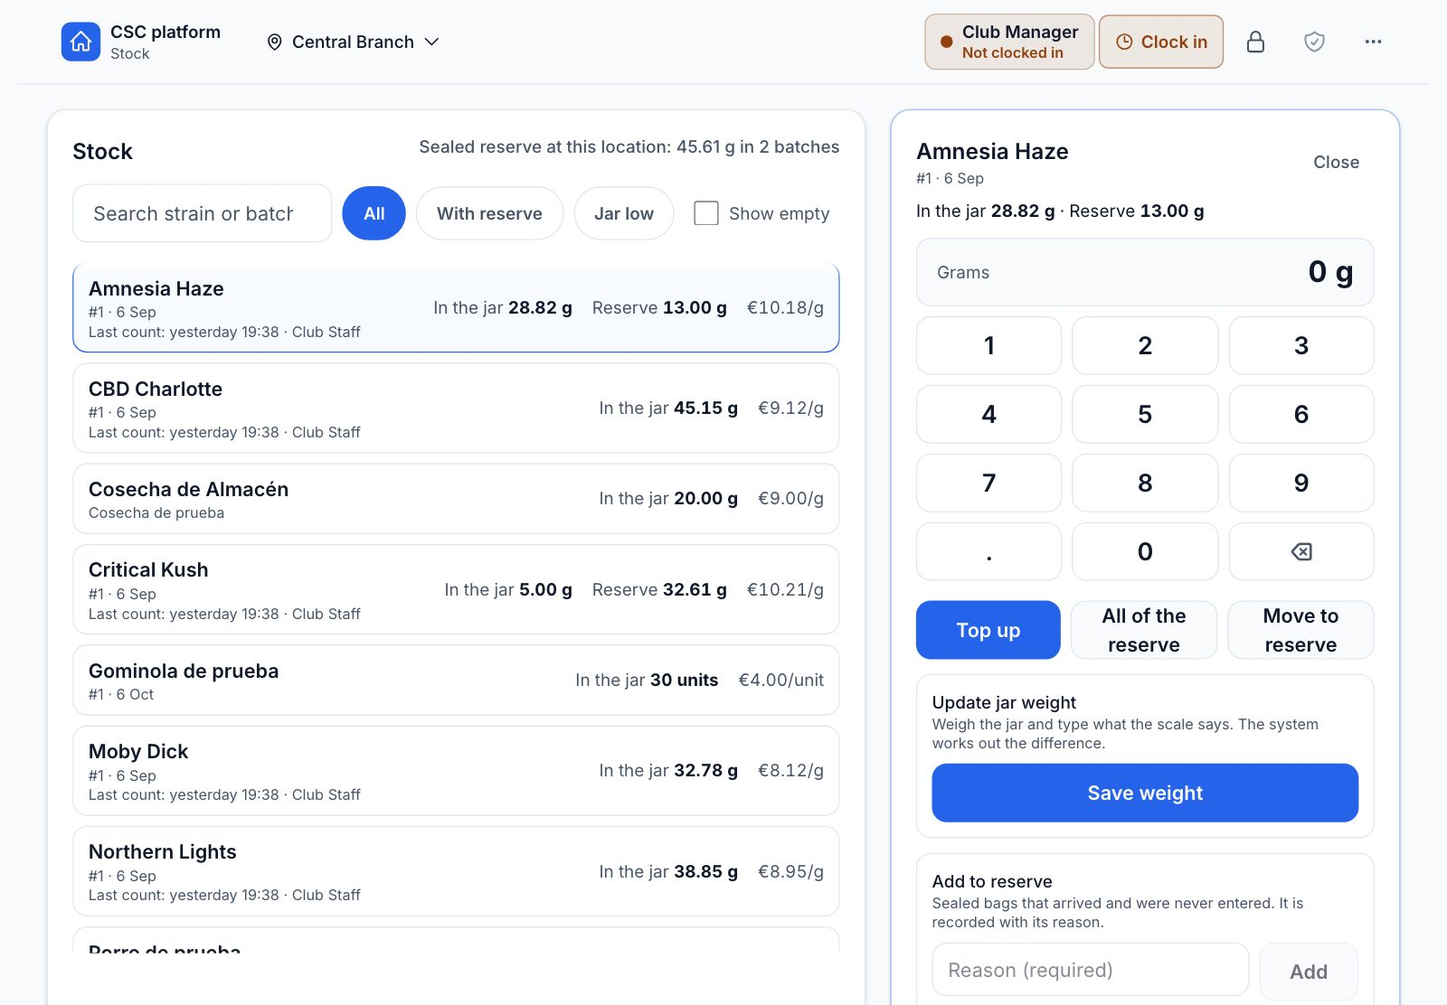
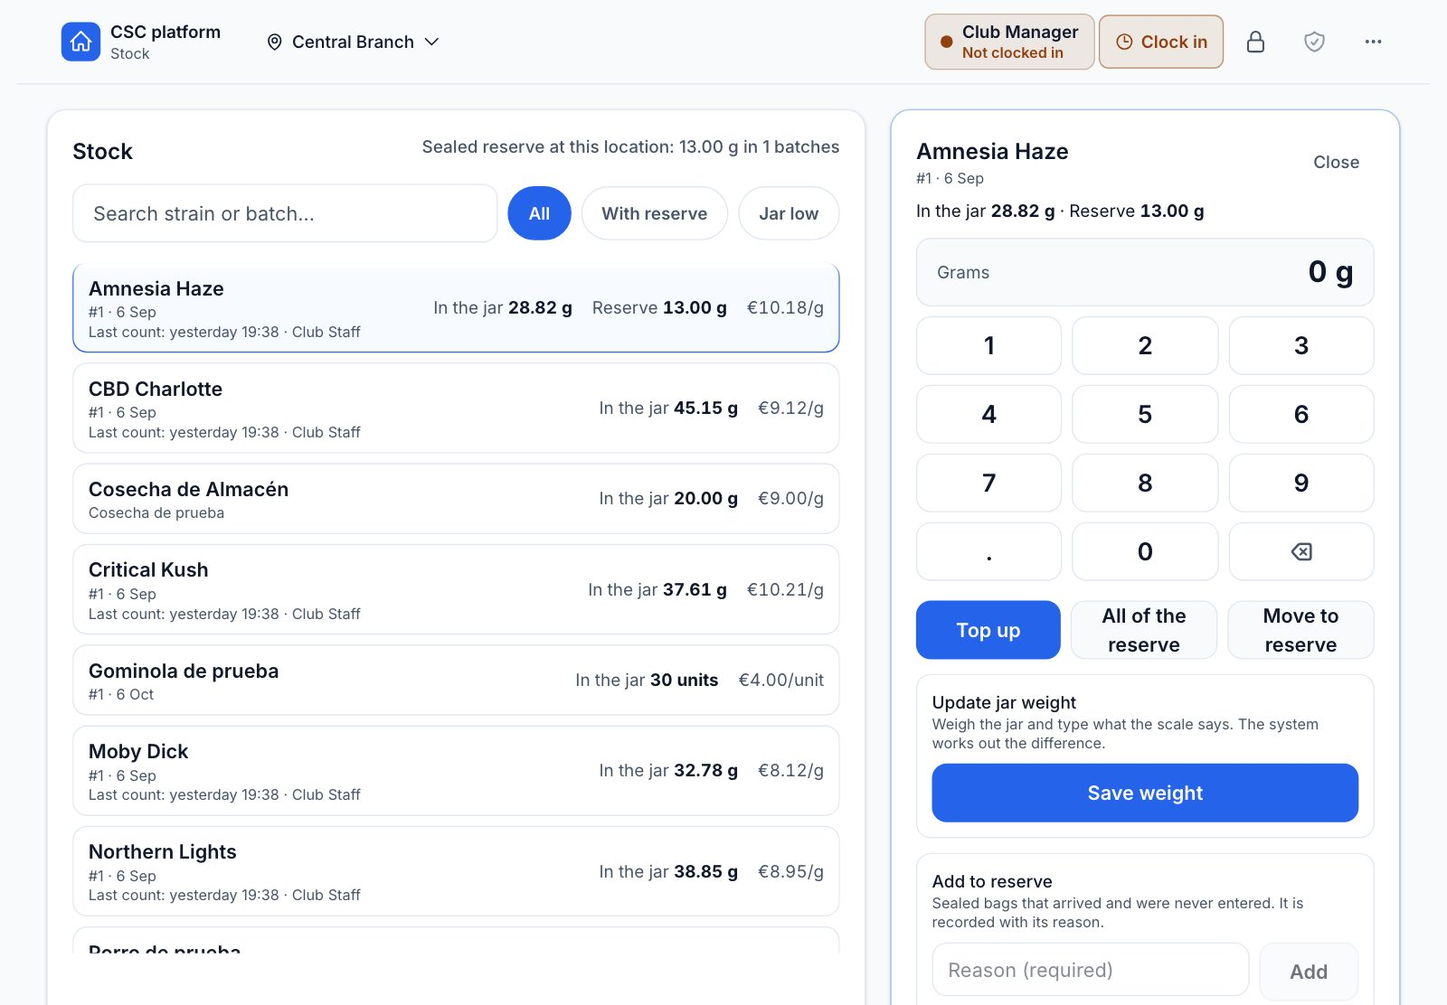
fix(counter): Existencias on a phone — the search box gets its own row, empties are counted and grouped, an empty reserve says why
- Header: full-width search row on a phone, chips underneath; one row from md only with min-w-56 (was 48 px on an iPhone).
- «N lotes agotados ocultos · Mostrar» replaces the checkbox; shown, the empties come last under «Agotados».
- «Con reserva» with no reserve at the sede: «No hay reserva sellada apuntada en esta sede.» and how it gets there.
- «Agotado» in English is "Out of stock", not "Sold out". Guide text and the 04b screenshot updated.

Claude-Session: https://claude.ai/code/session_01JxcuX4zpbtLwRQJ9oHz38d

diff --git a/resources/views/livewire/counter/stock-screen.blade.php b/resources/views/livewire/counter/stock-screen.blade.php
@@ -40,55 +40,66 @@
                     @endif
                 </div>
 
-                <div class="mt-3 flex flex-wrap items-center gap-2">
+                {{-- Prompt 365 — the search box has its OWN full-width row on a phone (in one wrapping row with the chips it shrank
+                     to a sliver: «Se»), and keeps ≥ 14rem beside the chips from 768 px. The chips wrap underneath. --}}
+                <div class="mt-3 flex flex-col gap-2 md:flex-row md:flex-wrap md:items-center">
                     <label class="sr-only" for="stock-search">{{ __('Buscar variedad o lote') }}</label>
                     <input id="stock-search" type="search" wire:model.live.debounce.300ms="batchFilter" autocomplete="off" data-stock-search
                            placeholder="{{ __('Buscar variedad o lote…') }}"
-                           class="h-12 min-w-0 flex-1 rounded-xl border border-line bg-surface px-4 text-base text-ink placeholder:text-ink-muted focus:border-brand focus:outline-none focus:ring-2 focus:ring-brand/40 dark:border-slate-700 dark:bg-slate-950 dark:text-slate-100">
-                    @foreach (['all' => __('Todos'), 'reserve' => __('Con reserva'), 'low' => __('Bote bajo')] as $key => $label)
-                        <button type="button" wire:click="setFilter('{{ $key }}')" data-stock-filter="{{ $key }}" aria-pressed="{{ $filter === $key ? 'true' : 'false' }}"
-                                @class(['inline-flex min-h-11 items-center rounded-full border px-4 text-sm font-semibold transition',
-                                    'border-brand bg-brand text-white' => $filter === $key,
-                                    'border-line bg-surface text-ink-muted hover:bg-surface-alt dark:border-slate-700 dark:bg-slate-950 dark:text-slate-300' => $filter !== $key])>{{ $label }}</button>
-                    @endforeach
-                    <label class="inline-flex min-h-11 items-center gap-2 px-2 text-sm text-ink-muted dark:text-slate-400">
-                        <input type="checkbox" wire:model.live="showEmpty" class="h-5 w-5 rounded border-line text-brand focus:ring-brand/40 dark:border-slate-600 dark:bg-slate-900" data-stock-show-empty>
-                        {{ __('Mostrar agotados') }}
-                    </label>
+                           class="h-12 w-full rounded-xl border border-line bg-surface px-4 text-base text-ink placeholder:text-ink-muted focus:border-brand focus:outline-none focus:ring-2 focus:ring-brand/40 dark:border-slate-700 dark:bg-slate-950 dark:text-slate-100 md:w-auto md:min-w-56 md:flex-1">
+                    <div class="flex flex-wrap items-center gap-2" data-stock-filters>
+                        @foreach (['all' => __('Todos'), 'reserve' => __('Con reserva'), 'low' => __('Bote bajo')] as $key => $label)
+                            <button type="button" wire:click="setFilter('{{ $key }}')" data-stock-filter="{{ $key }}" aria-pressed="{{ $filter === $key ? 'true' : 'false' }}"
+                                    @class(['inline-flex min-h-11 items-center rounded-full border px-4 text-sm font-semibold transition',
+                                        'border-brand bg-brand text-white' => $filter === $key,
+                                        'border-line bg-surface text-ink-muted hover:bg-surface-alt dark:border-slate-700 dark:bg-slate-950 dark:text-slate-300' => $filter !== $key])>{{ $label }}</button>
+                        @endforeach
+                    </div>
                 </div>
 
                 <div class="counter-scroll-region mt-4 max-h-[calc(100dvh-16rem)] overflow-y-auto overscroll-contain">
-                    @forelse ($rows as $row)
-                        <button type="button" wire:click="openBatch('{{ $row['id'] }}')" wire:key="stock-{{ $row['id'] }}" data-stock-row="{{ $row['id'] }}"
-                                @class(['mb-2 flex w-full min-h-11 flex-col gap-1 rounded-xl border px-3 py-2 text-left transition sm:flex-row sm:items-center sm:justify-between sm:gap-4',
-                                    'border-brand bg-brand-tint/50 dark:bg-slate-800' => $open !== null && $open['id'] === $row['id'],
-                                    'border-line bg-surface hover:border-brand hover:bg-brand-tint/40 dark:border-slate-700 dark:bg-slate-950 dark:hover:bg-slate-800' => $open === null || $open['id'] !== $row['id']])>
-                            <span class="min-w-0">
-                                <span class="block font-semibold text-ink dark:text-slate-100">{{ $row['name'] }}</span>
-                                <span class="block truncate text-xs text-ink-muted dark:text-slate-400">{{ $row['subtitle'] }}</span>
-                                @if ($row['last_count'])
-                                    <span class="block text-xs text-ink-muted dark:text-slate-400" data-stock-last-count>{{ $row['last_count'] }}</span>
-                                @endif
-                            </span>
-                            <span class="flex shrink-0 flex-wrap items-center gap-x-4 gap-y-1 text-sm sm:justify-end">
-                                <span class="tabular-nums"><span class="text-ink-muted dark:text-slate-400">{{ __('En el bote') }}</span> <strong class="text-ink dark:text-slate-100">{{ $row['jar_text'] }}</strong></span>
-                                @if ($row['reserve_cg'] > 0)
-                                    <span class="tabular-nums" data-stock-reserve><span class="text-ink-muted dark:text-slate-400">{{ __('Reserva') }}</span> <strong class="text-ink dark:text-slate-100">{{ $row['reserve_text'] }}</strong></span>
-                                @endif
-                                <span class="tabular-nums text-ink-muted dark:text-slate-400">{{ $row['price_text'] }}</span>
-                                @if ($row['chip'])
-                                    <span data-stock-chip @class(['inline-flex items-center gap-1 rounded-full px-2 py-0.5 text-xs font-semibold',
-                                        'bg-brand-tint text-brand dark:bg-slate-800 dark:text-slate-200' => $row['reserve_cg'] > 0 || ! $row['jar_empty'],
-                                        'bg-surface-alt text-ink-muted dark:bg-slate-800 dark:text-slate-400' => $row['empty']])>{{ $row['chip'] }}</span>
-                                @endif
-                            </span>
+                    @php
+                        $mainRows = $rows->where('empty', false);
+                        $emptyRows = $rows->where('empty', true);
+                    @endphp
+                    @foreach ($mainRows as $row)
+                        @include('livewire.counter.partials.stock-row')
+                    @endforeach
+
+                    {{-- Prompt 365 — the batches with nothing in the jar or the reserve are COUNTED, not a silent checkbox («the show empty
+                         isn't working»: they appeared A–Z far down a long list). Shown, they are grouped at the bottom. --}}
+                    @if ($emptyCount > 0)
+                        <button type="button" wire:click="toggleEmpty" data-stock-empty-toggle
+                                class="mb-2 inline-flex min-h-11 items-center gap-1 rounded-lg px-2 text-sm text-ink-muted hover:text-ink dark:text-slate-400 dark:hover:text-slate-200">
+                            @if ($showEmpty)
+                                {{ __('Ocultar agotados') }}
+                            @else
+                                {{ trans_choice(':count lote agotado oculto|:count lotes agotados ocultos', $emptyCount, ['count' => $emptyCount]) }} · <span class="font-semibold text-brand dark:text-slate-200">{{ __('Mostrar') }}</span>
+                            @endif
                         </button>
-                    @empty
+                    @endif
+                    @if ($showEmpty && $emptyRows->isNotEmpty())
+                        <h3 class="mb-2 mt-2 text-xs font-semibold uppercase tracking-wide text-ink-muted dark:text-slate-400" data-stock-empty-heading>{{ __('Agotados') }}</h3>
+                        @foreach ($emptyRows as $row)
+                            @include('livewire.counter.partials.stock-row')
+                        @endforeach
+                    @endif
+
+                    @if ($mainRows->isEmpty() && ! ($showEmpty && $emptyRows->isNotEmpty()))
                         <div class="rounded-xl border border-dashed border-line px-4 py-8 text-center dark:border-slate-700" data-stock-empty>
-                            <p class="font-medium text-ink dark:text-slate-100">{{ $batchFilter !== '' || $filter !== 'all' ? __('Nada coincide.') : __('No hay existencias en esta sede.') }}</p>
-                            <p class="mt-1 text-sm text-ink-muted dark:text-slate-400">{{ $batchFilter !== '' || $filter !== 'all' ? __('Prueba con otro nombre o quita el filtro.') : __('Los lotes aparecen aquí al darles entrada en el panel.') }}</p>
+                            @if ($filter === 'reserve' && $batchFilter === '' && ($summary['reserve_cg'] ?? 0) === 0)
+                                {{-- Prompt 365 — an empty reserve is data, not a typing problem: say why, and how it gets there. --}}
+                                <p class="font-medium text-ink dark:text-slate-100" data-stock-no-reserve>{{ __('No hay reserva sellada apuntada en esta sede.') }}</p>
+                                <p class="mt-1 text-sm text-ink-muted dark:text-slate-400">{{ __('Se apunta al recibir un lote («De ello, en reserva»), con «Pasar a reserva» aquí, o en Inventario.') }}</p>
+                            @elseif ($batchFilter !== '' || $filter !== 'all')
+                                <p class="font-medium text-ink dark:text-slate-100">{{ __('Nada coincide.') }}</p>
+                                <p class="mt-1 text-sm text-ink-muted dark:text-slate-400">{{ __('Prueba con otro nombre o quita el filtro.') }}</p>
+                            @else
+                                <p class="font-medium text-ink dark:text-slate-100">{{ __('No hay existencias en esta sede.') }}</p>
+                                <p class="mt-1 text-sm text-ink-muted dark:text-slate-400">{{ __('Los lotes aparecen aquí al darles entrada en el panel.') }}</p>
+                            @endif
                         </div>
-                    @endforelse
+                    @endif
                 </div>
             </section>
 

diff --git a/tests/Feature/Counter/StockScreenTest.php b/tests/Feature/Counter/StockScreenTest.php
@@ -256,6 +256,49 @@ class StockScreenTest extends TestCase
         $this->assertNotContains($elsewhere->id, $screen->instance()->sheet()->rows('all', showEmpty: true)->pluck('id')->all());
     }
 
+    // --- Prompt 365 — the empties are counted and grouped; an empty reserve says why ----------------------------------------
+
+    public function test_the_empties_are_counted_and_shown_grouped_at_the_bottom(): void
+    {
+        $this->batch($this->critical, 2000);
+        $this->batch($this->amnesia, 0, 0);
+        $this->batch($this->critical, 0, 0);
+        $screen = $this->screen($this->user(Role::STAFF));
+
+        $line = trans_choice(':count lote agotado oculto|:count lotes agotados ocultos', 2, ['count' => 2]);
+        $screen->assertSee($line)->assertSeeHtml('data-stock-empty-toggle')->assertDontSeeHtml('data-stock-empty-heading');
+
+        $html = $screen->call('toggleEmpty')->assertSee(__('Ocultar agotados'))->html();
+        $heading = strpos($html, 'data-stock-empty-heading');
+        $this->assertNotFalse($heading);
+        $rows = [];
+        preg_match_all('/data-stock-row="([^"]+)"/', $html, $rows, PREG_OFFSET_CAPTURE);
+        $positions = collect($rows[1])->mapWithKeys(fn (array $m): array => [$m[0] => $m[1]]);
+        $nonEmpty = Batch::query()->withoutGlobalScopes()->where('remaining_cg', '>', 0)->pluck('id');
+        $empty = Batch::query()->withoutGlobalScopes()->where('remaining_cg', 0)->where('reserve_cg', 0)->pluck('id');
+        $this->assertTrue($nonEmpty->every(fn (string $id): bool => $positions[$id] < $heading), 'every non-empty row comes first');
+        $this->assertTrue($empty->every(fn (string $id): bool => $positions[$id] > $heading), 'the empties are grouped under «Agotados»');
+    }
+
+    public function test_with_no_empty_batch_there_is_no_line(): void
+    {
+        $this->batch($this->amnesia, 2000);
+        $this->screen($this->user(Role::STAFF))->assertDontSeeHtml('data-stock-empty-toggle');
+    }
+
+    public function test_an_empty_reserve_says_why_and_a_failed_search_still_says_nothing_matches(): void
+    {
+        $this->batch($this->amnesia, 2000);
+        $screen = $this->screen($this->user(Role::STAFF));
+
+        $screen->call('setFilter', 'reserve')->assertSee(__('No hay reserva sellada apuntada en esta sede.'))
+            ->assertSee(__('Se apunta al recibir un lote («De ello, en reserva»), con «Pasar a reserva» aquí, o en Inventario.'))
+            ->assertDontSee(__('Nada coincide.'));
+
+        $screen->call('setFilter', 'all')->set('batchFilter', 'zzz')->assertSee(__('Nada coincide.'))
+            ->assertDontSee(__('No hay reserva sellada apuntada en esta sede.'));
+    }
+
     // --- 8. The dispensary no longer carries the reserve controls -------------------------------------------------------------
 
     public function test_the_dispensary_weight_panel_has_no_reserve_controls_and_its_empty_jar_links_here(): void

diff --git a/resources/views/livewire/counter/partials/stock-row.blade.php b/resources/views/livewire/counter/partials/stock-row.blade.php
@@ -1,0 +1,25 @@
+{{-- Prompt 364/365 — one *Existencias* row (the main list and the «Agotados» group share it). --}}
+<button type="button" wire:click="openBatch('{{ $row['id'] }}')" wire:key="stock-{{ $row['id'] }}" data-stock-row="{{ $row['id'] }}"
+        @class(['mb-2 flex w-full min-h-11 flex-col gap-1 rounded-xl border px-3 py-2 text-left transition sm:flex-row sm:items-center sm:justify-between sm:gap-4',
+            'border-brand bg-brand-tint/50 dark:bg-slate-800' => $open !== null && $open['id'] === $row['id'],
+            'border-line bg-surface hover:border-brand hover:bg-brand-tint/40 dark:border-slate-700 dark:bg-slate-950 dark:hover:bg-slate-800' => $open === null || $open['id'] !== $row['id']])>
+    <span class="min-w-0">
+        <span class="block font-semibold text-ink dark:text-slate-100">{{ $row['name'] }}</span>
+        <span class="block truncate text-xs text-ink-muted dark:text-slate-400">{{ $row['subtitle'] }}</span>
+        @if ($row['last_count'])
+            <span class="block text-xs text-ink-muted dark:text-slate-400" data-stock-last-count>{{ $row['last_count'] }}</span>
+        @endif
+    </span>
+    <span class="flex shrink-0 flex-wrap items-center gap-x-4 gap-y-1 text-sm sm:justify-end">
+        <span class="tabular-nums"><span class="text-ink-muted dark:text-slate-400">{{ __('En el bote') }}</span> <strong class="text-ink dark:text-slate-100">{{ $row['jar_text'] }}</strong></span>
+        @if ($row['reserve_cg'] > 0)
+            <span class="tabular-nums" data-stock-reserve><span class="text-ink-muted dark:text-slate-400">{{ __('Reserva') }}</span> <strong class="text-ink dark:text-slate-100">{{ $row['reserve_text'] }}</strong></span>
+        @endif
+        <span class="tabular-nums text-ink-muted dark:text-slate-400">{{ $row['price_text'] }}</span>
+        @if ($row['chip'])
+            <span data-stock-chip @class(['inline-flex items-center gap-1 rounded-full px-2 py-0.5 text-xs font-semibold',
+                'bg-brand-tint text-brand dark:bg-slate-800 dark:text-slate-200' => $row['reserve_cg'] > 0 || ! $row['jar_empty'],
+                'bg-surface-alt text-ink-muted dark:bg-slate-800 dark:text-slate-400' => $row['empty']])>{{ $row['chip'] }}</span>
+        @endif
+    </span>
+</button>

diff --git a/app/Livewire/Counter/StockScreen.php b/app/Livewire/Counter/StockScreen.php
@@ -90,6 +90,12 @@ class StockScreen extends Component
         return new CounterStockSheet($this->resolveLocation() ?? new Location);
     }
 
+    /** Prompt 365 — «N lotes agotados ocultos · Mostrar» / «Ocultar agotados». */
+    public function toggleEmpty(): void
+    {
+        $this->showEmpty = ! $this->showEmpty;
+    }
+
     public function setFilter(string $filter): void
     {
         $this->filter = in_array($filter, ['all', 'reserve', 'low'], true) ? $filter : 'all';
@@ -266,6 +272,7 @@ class StockScreen extends Component
         return view('livewire.counter.stock-screen', [
             'rows' => $this->resolveLocation() !== null ? $sheet->rows($this->filter, $this->showEmpty, $this->batchFilter) : collect(),
             'summary' => $this->resolveLocation() !== null ? $sheet->summary() : null,
+            'emptyCount' => $this->resolveLocation() !== null ? $sheet->emptyCount($this->filter, $this->batchFilter) : 0,
             'open' => $sheet->row($this->openBatchId),
             'canTopUp' => $this->userCan('pos.use'),
             'canWeigh' => $this->userCan('stock.take'),

diff --git a/app/ViewModels/CounterStockSheet.php b/app/ViewModels/CounterStockSheet.php
@@ -45,7 +45,15 @@ class CounterStockSheet
                 default => true,
             })
             ->filter(fn (array $row): bool => $needle === '' || str_contains(mb_strtolower($row['name'].' '.$row['batch_no']), $needle))
+            // Prompt 365 — the empties, when shown, come AFTER every other row (grouped under «Agotados»), not A–Z among them.
+            ->sortBy(fn (array $row): int => $row['empty'] ? 1 : 0)
             ->values();
+    }
+
+    /** Prompt 365 — how many zero/zero batches the current filter and search would show on «Mostrar» (0 = no line at all). */
+    public function emptyCount(string $filter = 'all', string $search = ''): int
+    {
+        return $this->rows($filter, true, $search)->where('empty', true)->count();
     }
 
     /** @return array<string, mixed>|null one batch's row (for the action panel), only if it is at this sede */

diff --git a/DECISIONS.md b/DECISIONS.md
@@ -20909,3 +20909,63 @@ staff `stock.take`, and merge to main when green.
   excluded members who had dispensations "today" in UTC (`whereDate(now())`). The daily limit counts the SEDE's business
   day, and every demo sede has been in Madrid since 362. Depending on the random seed, a dispensation at 22:30 UTC
   yesterday (00:30 today in Madrid) let it pick a member already at the cap. It now uses `BusinessDay::window($location)`.
+
+## Prompt 365 — *Existencias* on a phone: the search box gets its own row, the empties are counted, and an empty reserve says why
+
+From Ben's iPhone screenshots of the live screen. Merged to main on Ben's standing instruction (as 364), although the
+prompt says not to merge.
+
+### The header layout rule
+
+- **Phone:** the search box has its OWN full-width row, with the filter chips in a row underneath (they wrap).
+- **From 768 px (`md`):** one row is allowed only while the box keeps `min-w-56` (14rem) and grows (`flex-1`);
+  otherwise it wraps.
+- **The cause:** in one `flex-wrap` row with the chips and the checkbox, the `min-w-0 flex-1` input SHRANK instead of
+  wrapping.
+- **Before:** measured **48 px wide** on an iPhone 15, with the placeholder clipped to a 14 px content box. The prompt
+  measured 119 px; Ben's live English screenshot showed «Se».
+- **After:** 327 px of the card's 327 px inner width at 393, and 319 of 319 with the root type +12.5% (one larger iOS
+  text size). The placeholder fits in es and en; at 820 the box is 451 px (406 px with larger text).
+
+### The hidden-count line replaces the checkbox
+
+- «Mostrar agotados» worked but looked broken, because the zero/zero batches appeared A–Z far down a long list.
+- **Now a line counts them:** «3 lotes agotados ocultos · Mostrar» ("3 empty batches hidden · Show"), the panel's
+  Batches pattern.
+- **Shown:** they come AFTER every other row, under a small heading «Agotados». The sheet sorts the empty group last,
+  stably, so A–Z and FEFO hold within each group. The line then reads «Ocultar agotados».
+- **No empties, no line.** The search and the filters still apply; `emptyCount()` counts what the current filter and
+  search would show.
+- **The row markup is now one partial** (`partials/stock-row`), shared by both groups.
+
+### The empty-reserve wording
+
+- With «Con reserva» on, no search, and a sede reserve of 0, the empty state says it is data, not a typing problem:
+  «No hay reserva sellada apuntada en esta sede.», then «Se apunta al recibir un lote («De ello, en reserva»), con
+  «Pasar a reserva» aquí, o en Inventario.»
+- «Nada coincide.» stays for a search or filter that finds nothing.
+- **Ops:** the live "0.00 g in 0 batches" means no reserve has been recorded at that sede yet. That is 360's go-live
+  step (Inventario with «Incluir lotes a cero»).
+
+### Also
+
+- **Vocabulary fix:** «Agotado»'s English was "Sold out", which is sale framing. It is now "Out of stock" (the counter
+  chip and the bar's article card).
+- **Guides:** `counter-quick-start.md` describes the hidden-count line and the empty-reserve message, with the word
+  list; `04b-top-up.jpg` was retaken through `shots.json`.
+- **Unchanged:** what the list contains, its order, the actions panel and the permissions.
+
+### Tests and proof
+
+- **`StockScreenTest`** (+3, the first two seen red before):
+  - 2 empties → «2 lotes agotados ocultos · Mostrar», and once shown every non-empty row precedes «Agotados», which
+    precedes the empties;
+  - no empties → no line;
+  - an empty reserve says why, while a failed search still says «Nada coincide.»
+- The 364 tests still pass.
+- **`tests/Browser/prove-365-existencias-phone.mjs`** (iPhone 15 and 820×1180, es and en, default and larger text)
+  passed 24/24. It checks that the page is in the language, the box is at least 90% of the card on a phone (at least
+  224 px on a tablet), and the placeholder is not clipped.
+  - The harness signs in once per language; eight sign-ins trip the login rate limit.
+- **Screenshots** (`storage/app/screenshots/365/`, en, 393 light and dark plus 820): the header, the empties shown, and
+  the empty-reserve message.

diff --git a/resources/guides/en/counter-quick-start.md b/resources/guides/en/counter-quick-start.md
@@ -156,7 +156,7 @@ New members are added to **every club** automatically (not the store), and pay t
 
 ### Stock (Existencias)
 
-**Stock** on the counter home lists every batch at this club: what is in each **jar**, what is sealed in its **reserve**, its price, and when it was last weighed. The line at the top says how much sealed reserve the club holds in total. Search by strain or batch number, or use **All / With reserve / Jar low**; **Show empty** adds batches with nothing left.
+**Stock** on the counter home lists every batch at this club: what is in each **jar**, what is sealed in its **reserve**, its price, and when it was last weighed. The line at the top says how much sealed reserve the club holds in total. Search by strain or batch number, or use **All / With reserve / Jar low**. Batches with nothing left are hidden; a line under the list says how many (*"2 empty batches hidden · Show"*), and **Show** lists them at the bottom under **Empty**. If **With reserve** shows nothing, no sealed reserve has been recorded at this club yet (the screen says so).
 
 Tap a batch to open its actions. Type the grams on the keypad first:
 
@@ -264,6 +264,7 @@ The counter shows Spanish or English, depending on each person's language settin
 | El recuento no cuadra — ¿qué ha pasado? | The count doesn't match — what happened? |
 | Reserva · Con reserva · Rellenar · Toda la reserva · Pasar a reserva | Reserve · With reserve · Top up · All of the reserve · Move to reserve |
 | Existencias · Actualizar peso del bote · Añadir a la reserva · Volver al dispensario | Stock · Update jar weight · Add to reserve · Back to the dispensary |
+| lotes agotados ocultos · Mostrar · Agotados | empty batches hidden · Show · Empty |
 | Bote vacío · Rellenado sin registrar | Jar empty · Unrecorded top-up |
 | Diferencia · Nota | Difference · Note |
 | Modo formación | Training mode |
